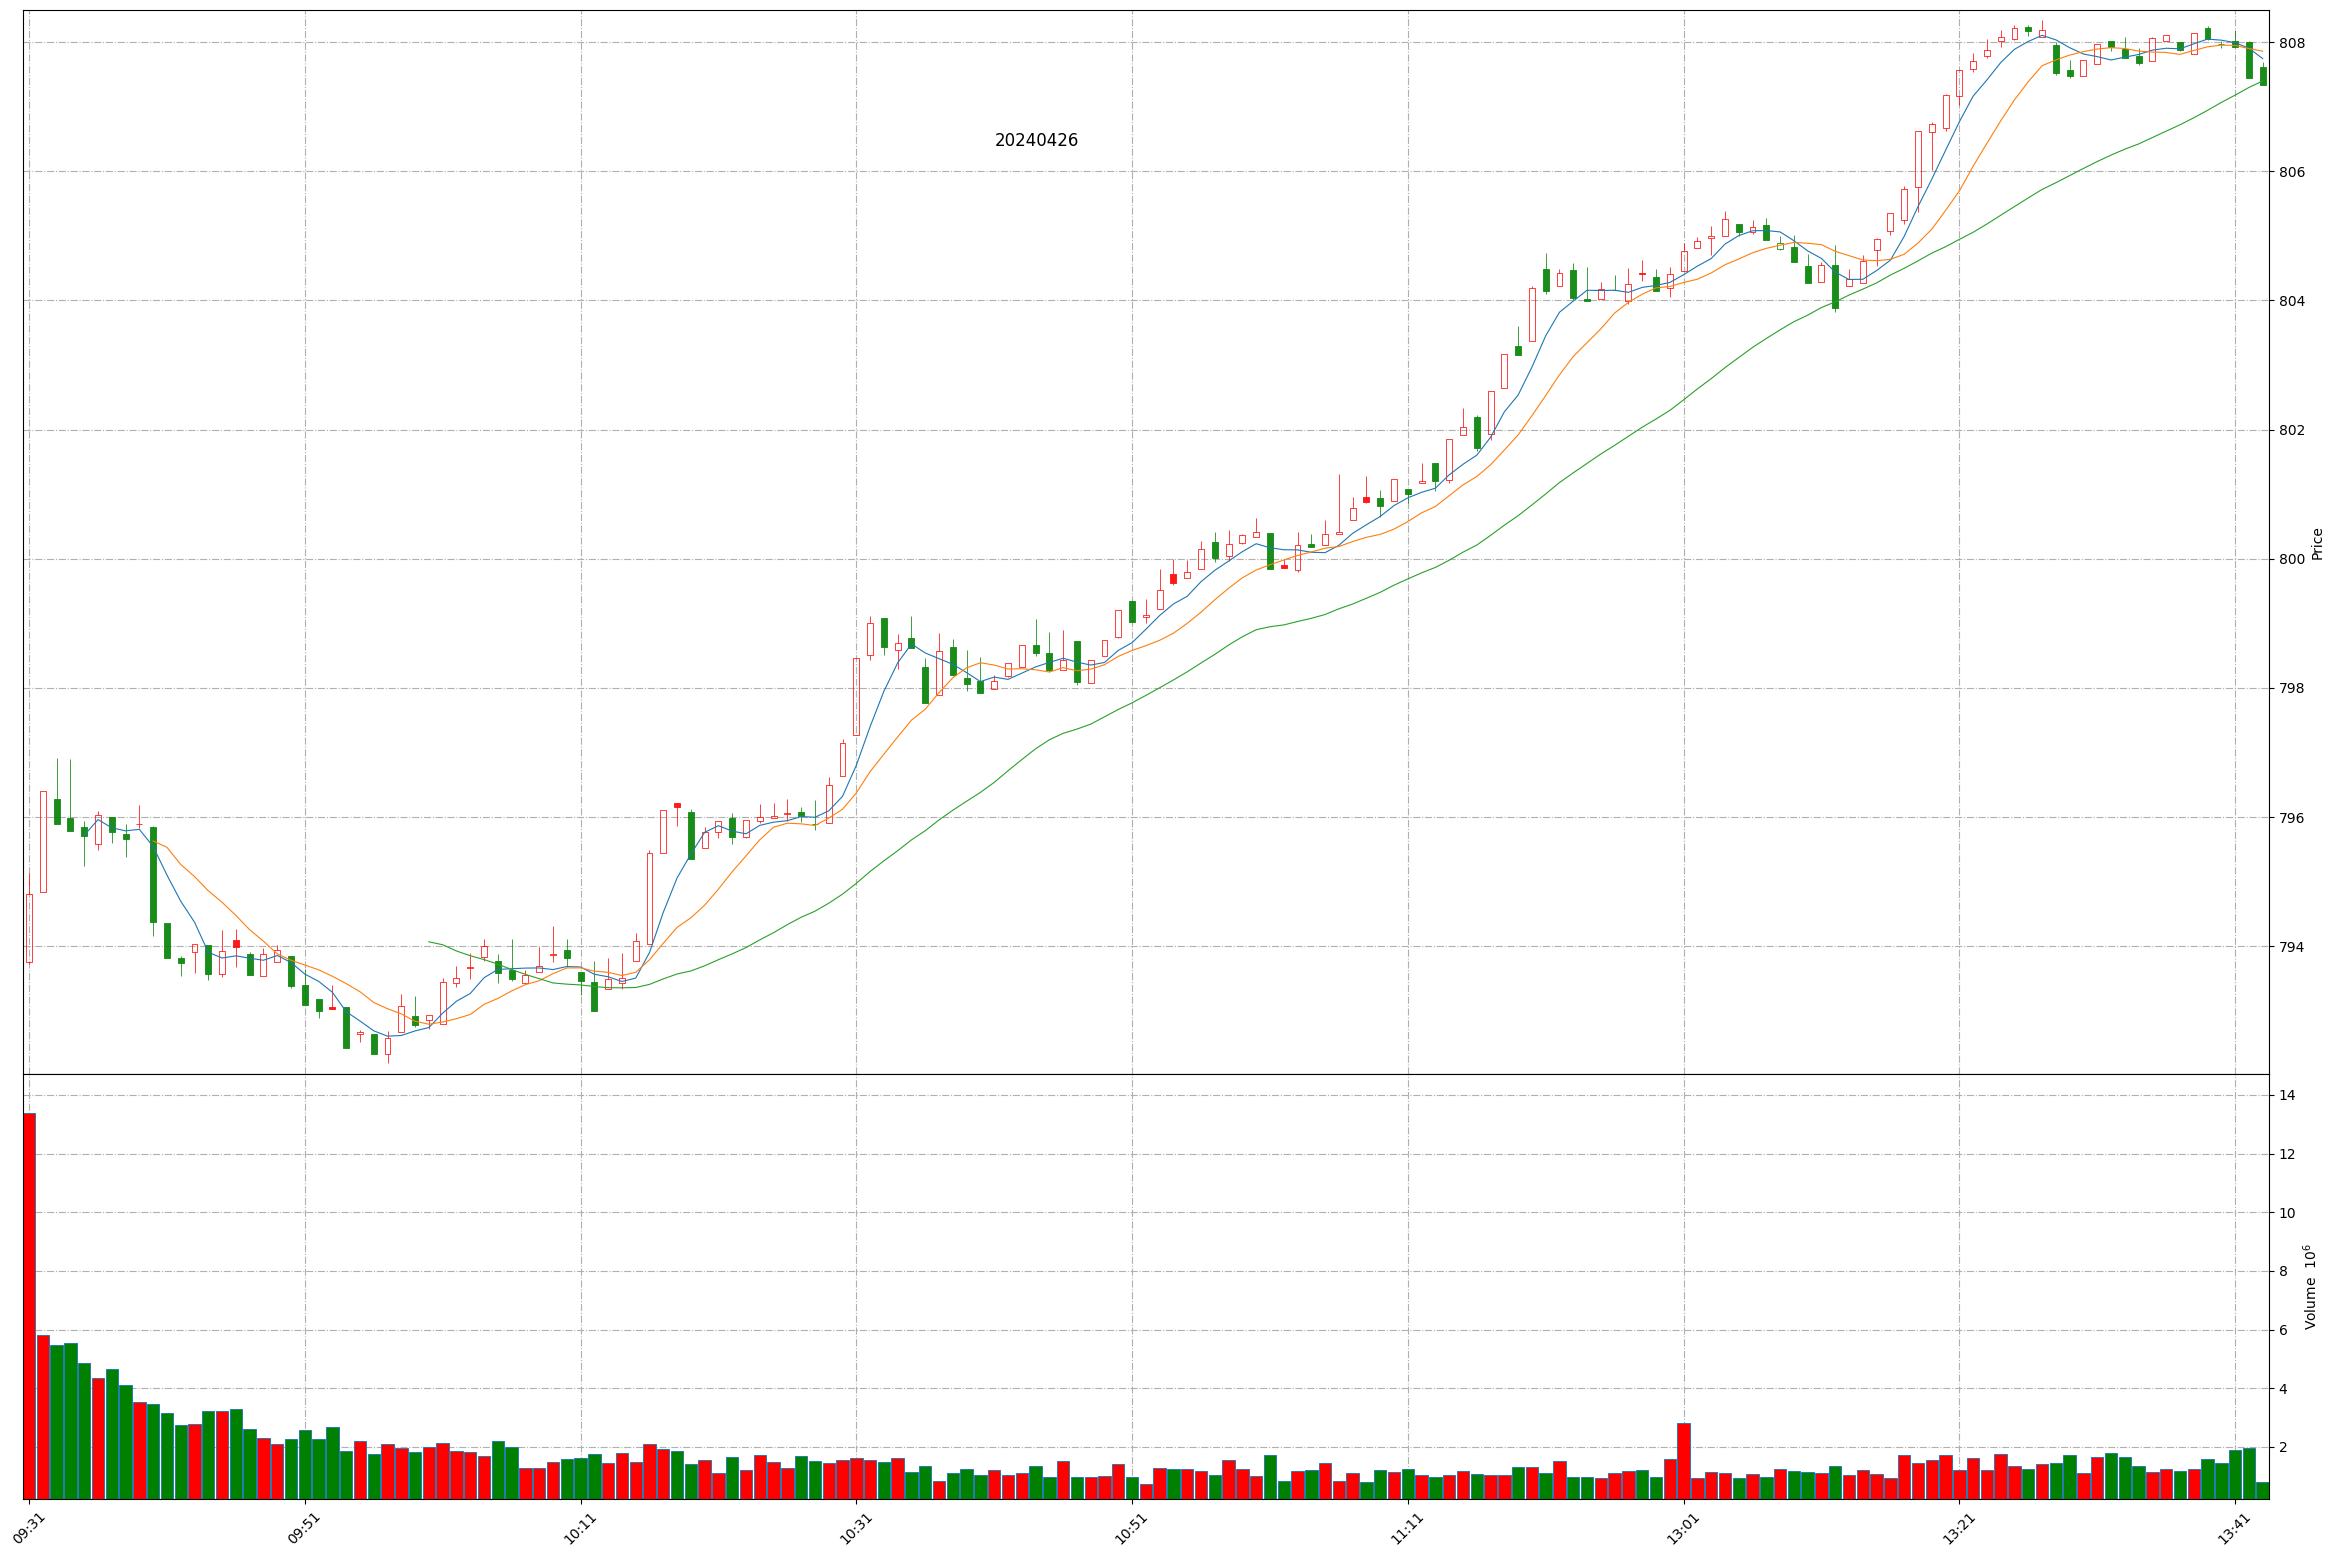
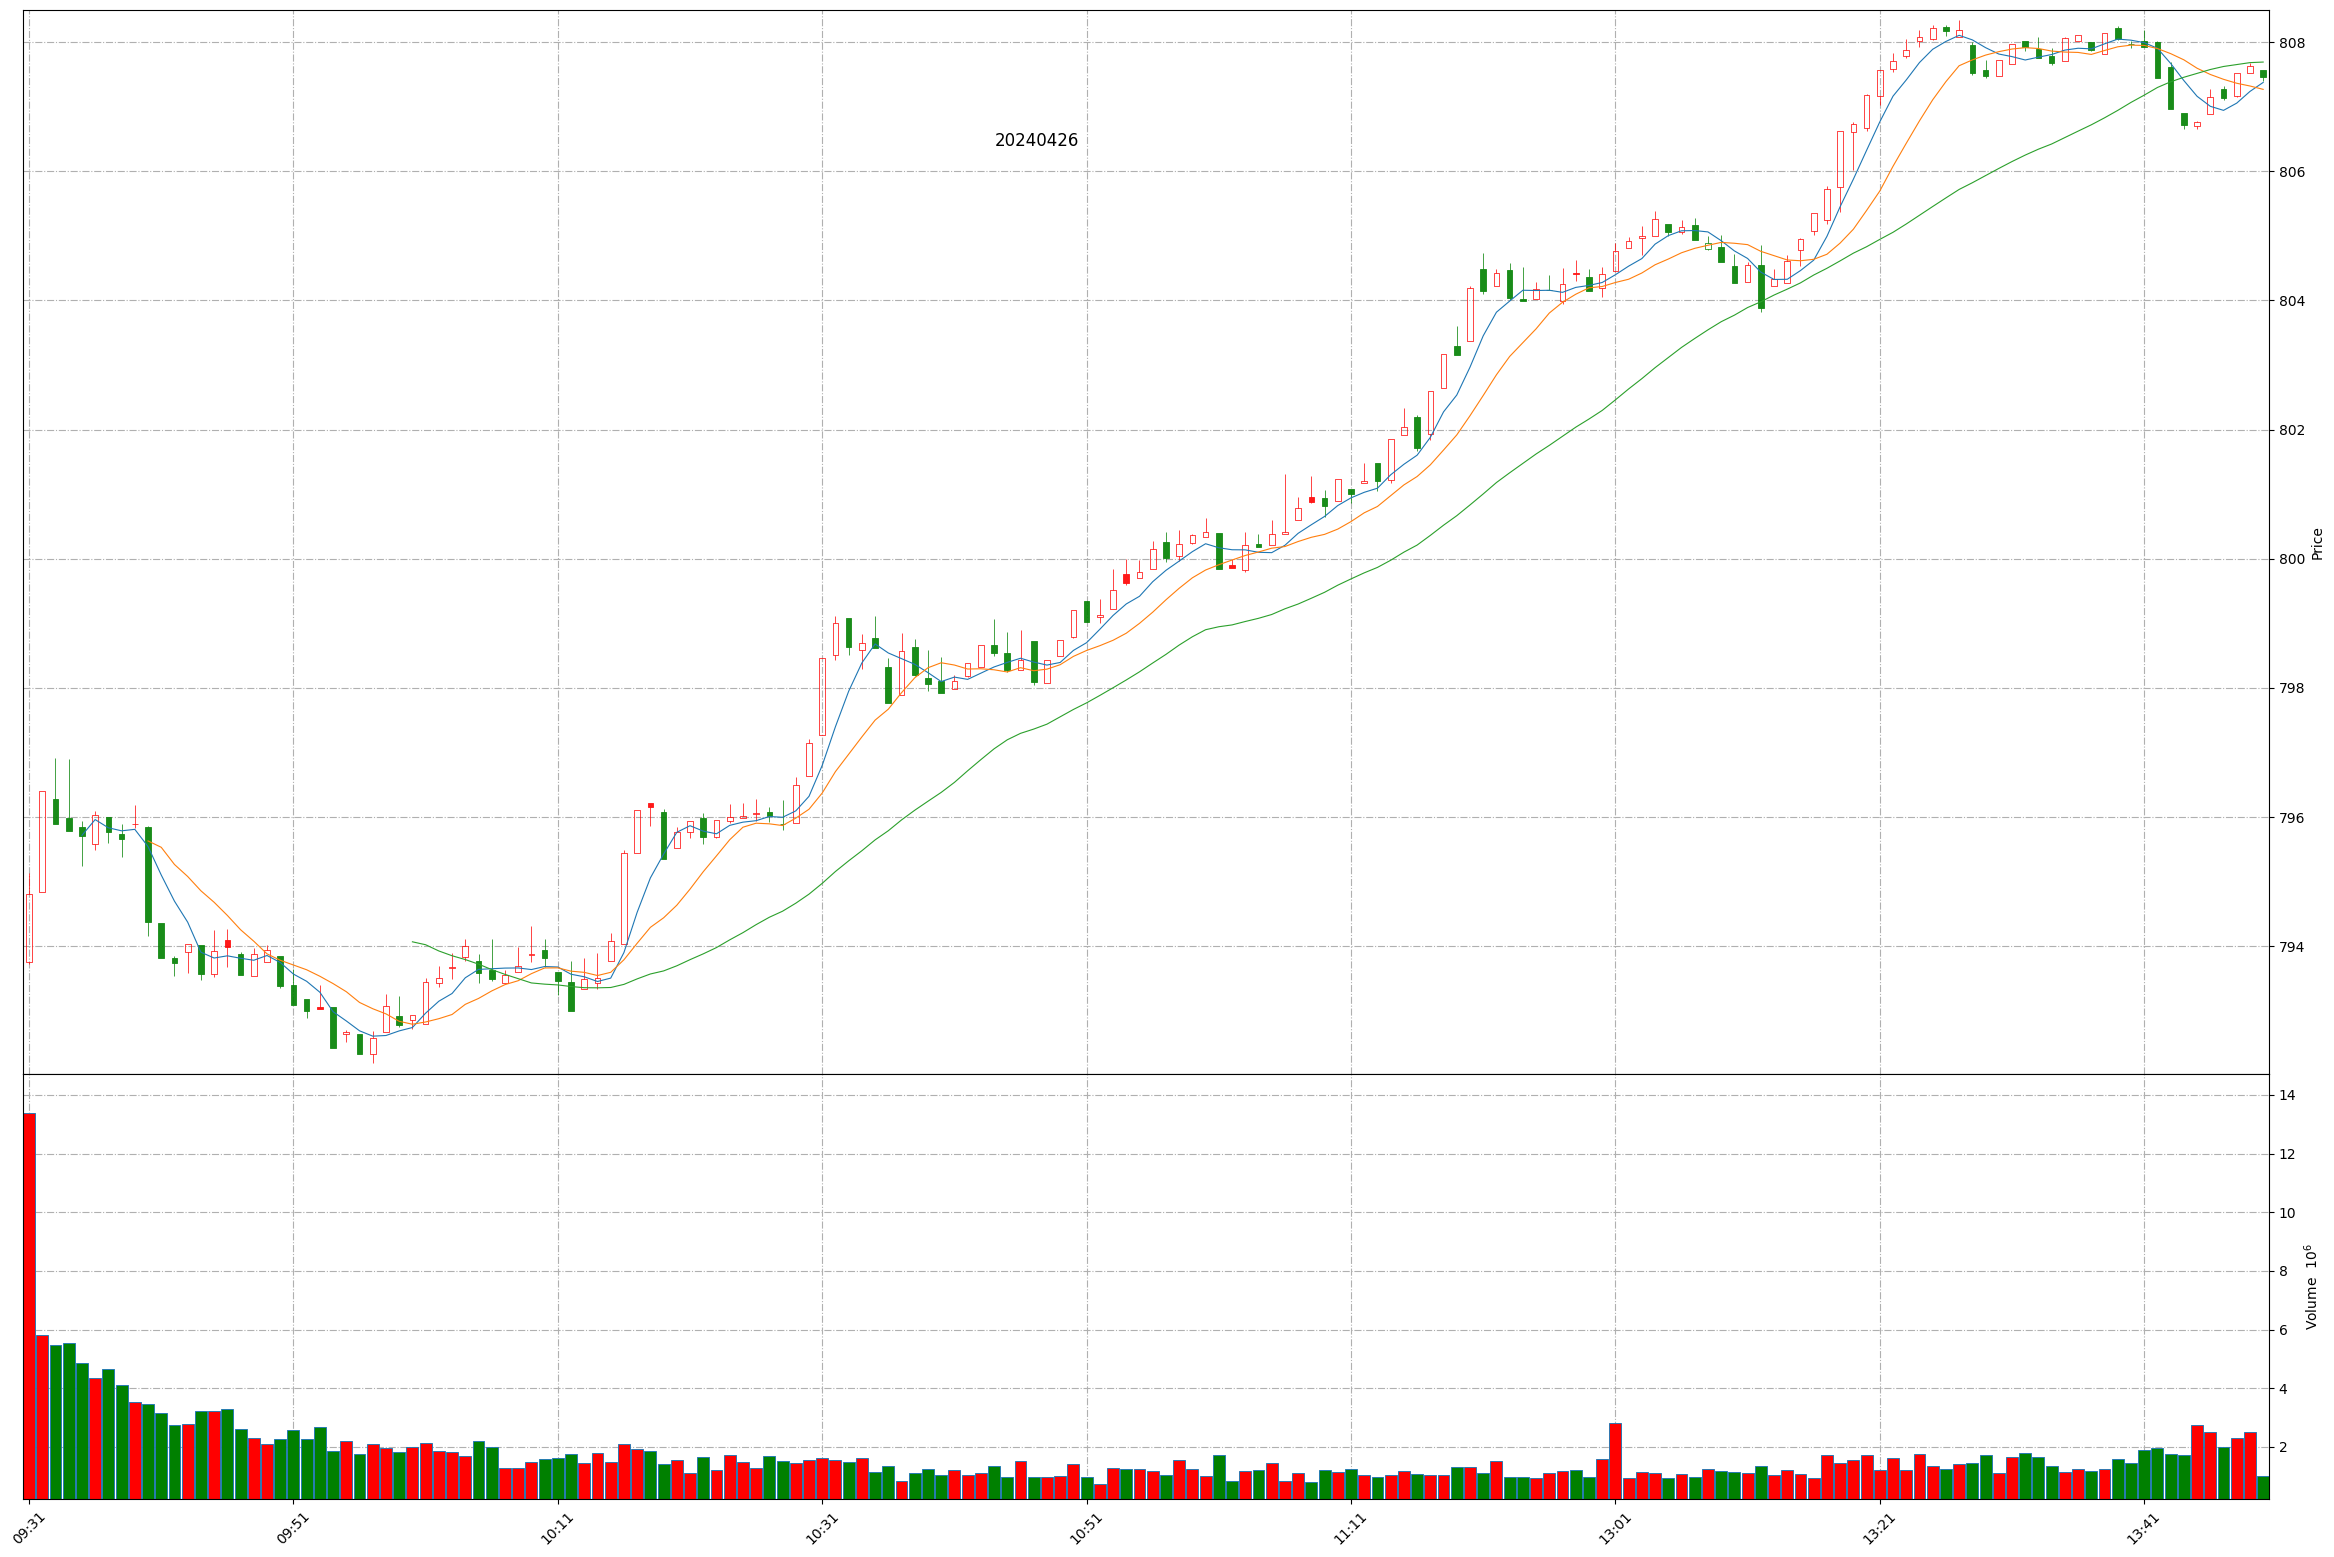
Github action update at 2024-04-26 13:49:36.

diff --git a/README.md b/README.md
@@ -1,11 +1,11 @@
 
 # Daily-A-share-market-quotes 每日 A 股指数（5min 更新）- 20240426
 
-### 上证指数 20240426 13:42
+### 上证指数 20240426 13:49
 ![](./fig/2024/4/20240426-sh000001.png)
 
-### 深证成指 20240426 13:42
+### 深证成指 20240426 13:49
 ![](./fig/2024/4/20240426-sz399001.png)
 
-### 北证50 20240426 13:42
+### 北证50 20240426 13:49
 ![](./fig/2024/4/20240426-bj899050.png)
